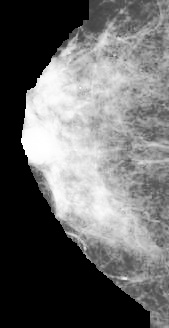
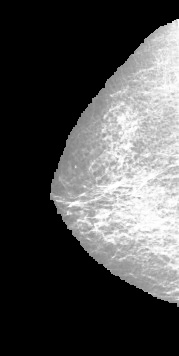
Calculo individual de areas y perimetros

diff --git a/Segmentacion/deteccionCal.py b/Segmentacion/deteccionCal.py
@@ -5,6 +5,15 @@ from PIL import Image
 from scipy import ndimage
 import matplotlib.pyplot as plt
 import matplotlib.image as mpimg
+from PIL import Image, ImageFilter
+
+coord_x = None
+coord_y = None
+valoresArea = None
+valoresPerimetro = None
+areaComponente = None
+perimetroComponente = None
+
 
 def preProcesamiento(ruta):
     img_orignal = ruta
@@ -26,20 +35,11 @@ def preProcesamiento(ruta):
     umbral = 30  # Puedes ajustar este valor según tus necesidades
     imagen_umbralizada = cv2.threshold(imagen, umbral, 255, cv2.THRESH_BINARY)[1]
 
-    # cv2.imshow('nc', imagen_original)
-
     # Aplica la máscara a la imagen a color
     imagen_resultante = cv2.bitwise_and(imagen_ecualizada, imagen_ecualizada, mask=imagen_umbralizada)
 
     # Guarda la imagen resultante
     cv2.imwrite('imagen_resultante.jpg', imagen_resultante)
-
-    # Muestra la imagen original, la imagen umbralizada y la imagen resultante
-    # cv2.imshow('Imagen Original', imagen_original)
-    # cv2.imshow('Imagen Umbralizada', imagen_umbralizada)
-    # cv2.imshow('Imagen Resultante', imagen_resultante)
-    # cv2.waitKey(0)
-    # cv2.destroyAllWindows()
 
     return imagen_umbralizada
 
@@ -57,11 +57,6 @@ def segmentacion(ruta, rutaOriginal):
     np_image = np.array(imgGrises)
     np_image = ajustar_gamma(np_image, 0.1)
     np_image = ajustar_gamma(np_image, 0.1)
-
-    # plt.imshow(np_image, cmap='gray')
-    # plt.title(f'Imagen con Gamma {2.0}')
-    # plt.axis('off')
-    # plt.show()
 
     # Crear la máscara binaria para el top % más brillante
     umbral = np.percentile(np_image, 98)
@@ -93,13 +88,10 @@ def segmentacion(ruta, rutaOriginal):
 
     # Convertir la máscara binaria a una imagen PIL y guardarla
     result_image = Image.fromarray((final_image * 255).astype(np.uint8))
+    for _ in range(4):
+        result_image = result_image.filter(ImageFilter.MedianFilter(size=3))
+    
     result_image.save('imagen_umbralizada.png')
-
-    # Mostrar la imagen resultante
-    # plt.imshow(final_image, cmap='gray')
-    # plt.axis('off')
-    # plt.show()
-
 
     # Cargar las imágenes
     imagen1 = Image.open(rutaOriginal).convert("RGB")
@@ -129,31 +121,119 @@ def segmentacion(ruta, rutaOriginal):
 
     return 'imagen_umbralizada.png'
 
+def etiquetar_objetos(matriz):
+    etiqueta = 0
+    etiquetas = {}
+    for i in range(len(matriz)):
+        for j in range(len(matriz[i])):
+            if matriz[i][j] == 1:
+                vecinos = obtener_vecinos(etiquetas, i, j)
+                if not vecinos:
+                    etiqueta += 1
+                    etiquetas[(i, j)] = etiqueta
+                else:
+                    etiqueta_min = min(vecinos)
+                    etiquetas[(i, j)] = etiqueta_min
+                    actualizar_etiquetas(etiquetas, vecinos, etiqueta_min)
+    return etiquetas
 
-def area_y_perimetro(image_path):
-    image = Image.open(image_path)
-    imgBn = image.convert('1')
+def obtener_vecinos(etiquetas, i, j):
+    vecinos = []
+    for di, dj in [(-1, 0), (0, -1), (-1, -1), (1, -1)]:
+        if (i + di, j + dj) in etiquetas:
+            vecinos.append(etiquetas[(i + di, j + dj)])
+    return vecinos
 
-    imgArr = np.array(imgBn)
+def actualizar_etiquetas(etiquetas, vecinos, nueva_etiqueta):
+    for posicion in etiquetas:
+        if etiquetas[posicion] in vecinos:
+            etiquetas[posicion] = nueva_etiqueta
 
-    # Inverso de la imagen
-    imagenInvertida = np.invert(imgArr)
-    contornos, _ = cv2.findContours(imagenInvertida.astype(np.uint8), cv2.RETR_TREE, cv2.CHAIN_APPROX_SIMPLE)
+def calcular_area_perimetro(etiquetas, matriz):
+    areas = {}
+    perimetros = {}
+    for posicion, etiqueta in etiquetas.items():
+        i, j = posicion
+        if etiqueta not in areas:
+            areas[etiqueta] = 0
+        if etiqueta not in perimetros:
+            perimetros[etiqueta] = 0
+        areas[etiqueta] += 1
+        perimetros[etiqueta] += contar_bordes(matriz, i, j)
 
-    # Suma de las regiones de interes
-    area = np.sum(imagenInvertida)
+    return areas, perimetros
 
-    # Calculo del perimetro calculando la logitud de cada contorno
-    perimetro = sum(cv2.arcLength(cnt, True) for cnt in contornos)
+def contar_bordes(matriz, i, j):
+    bordes = 0
+    for di, dj in [(-1, 0), (1, 0), (0, -1), (0, 1)]:
+        if 0 <= i + di < len(matriz) and 0 <= j + dj < len(matriz[0]):
+            if matriz[i + di][j + dj] == 0:
+                bordes += 1
+        else:
+            bordes += 1
+    return bordes
 
-    imagen_contorno = np.zeros(imagenInvertida.shape, dtype=np.uint8)
-    cv2.drawContours(imagen_contorno, contornos, -1, 255, 1)
+def cal_area_y_perimetro(rutaImagen):
+    image = Image.open(rutaImagen)
+    imgBn = image.convert('1')  # Convertir a imagen binaria (blanco y negro)
 
-    imgContorno = Image.fromarray(imagen_contorno)
-    ruta_contorno = image_path.replace('.png', '_contornos.png')
-    imgContorno.save(ruta_contorno)
+    imgArr = np.array(imgBn)  # Convertir a matriz numpy
 
-    return area, perimetro, ruta_contorno
+    # Invertir la imagen: en PIL, '1' es blanco y '0' es negro
+    matriz_binaria = imgArr.astype(int)  # Convertir a matriz binaria de 0 y 1
+
+    etiquetas = etiquetar_objetos(matriz_binaria)
+    areas, perimetros = calcular_area_perimetro(etiquetas, matriz_binaria)
+
+    matriz_areas = [[0 for _ in range(len(matriz_binaria[0]))] for _ in range(len(matriz_binaria))]
+    matriz_perimetros = [[0 for _ in range(len(matriz_binaria[0]))] for _ in range(len(matriz_binaria))]
+
+    for (i, j), etiqueta in etiquetas.items():
+        matriz_areas[i][j] = areas[etiqueta]
+        matriz_perimetros[i][j] = perimetros[etiqueta]
+
+    return matriz_areas, matriz_perimetros
+
+
+
+def deteccionBordes(rutaImagen):
+    # Cargar la imagen y convertirla a escala de grises
+    image = Image.open(rutaImagen)
+    img_gray = image.convert('L')
+    img_array = np.array(img_gray)
+
+    # Aplicar el filtro Laplaciano
+    img_laplacian = cv2.Laplacian(img_array, cv2.CV_64F)
+
+    # Normalizar y convertir a uint8
+    img_laplacian = np.clip(img_laplacian, 0, 255)
+    img_laplacian = np.absolute(img_laplacian)  # Obtener el valor absoluto para asegurar que todos los valores sean positivos
+    img_laplacian = np.uint8(img_laplacian)
+
+    # Binarizar la imagen
+    _, img_bin = cv2.threshold(img_laplacian, 50, 255, cv2.THRESH_BINARY)
+
+    # Guardar la imagen resultante
+    img_contorno = Image.fromarray(img_bin)
+    ruta_contorno = rutaImagen.replace('.png', '_contornos_laplacian.png')
+    img_contorno.save(ruta_contorno)
+
+    return ruta_contorno
+
+def on_move(event):
+    global coord_x, coord_y, texto_area_perimetro
+    # Asegúrate de que el movimiento sea dentro de un eje
+    if event.inaxes is not None:
+        coord_x, coord_y = event.xdata, event.ydata
+
+        # Asegúrate de que las coordenadas estén dentro del rango
+        if 0 <= int(coord_y) < len(valoresArea) and 0 <= int(coord_x) < len(valoresArea[0]):
+            areaComponente = valoresArea[int(coord_y)][int(coord_x)]
+            perimetroComponente = valoresPerimetro[int(coord_y)][int(coord_x)]
+
+            # Actualiza el texto con los nuevos valores
+            texto_area_perimetro.set_text(f'Área: {areaComponente} px, Perímetro: {perimetroComponente} px')
+            plt.draw()  # Actualiza la figura
 
 def main():
     parser = argparse.ArgumentParser(description='Procesar una imagen.')
@@ -162,18 +242,18 @@ def main():
     ruta = args.ruta
     original = cv2.imread(ruta)
 
-    img_umbralizada = preProcesamiento(ruta)
+    preProcesamiento(ruta)
     mascara_segmentacion = segmentacion('imagen_resultante.jpg', ruta)
-    area, perimetro, ruta_contorno = area_y_perimetro('imagen_umbralizada.png')
+    ruta_contorno = deteccionBordes('imagen_umbralizada.png')
+
+    global valoresArea, valoresPerimetro, areaComponente, perimetroComponente
+    valoresArea, valoresPerimetro = cal_area_y_perimetro('imagen_umbralizada.png')
     img_segmentada = 'imagenSegmentada.jpg'
 
     areas = mpimg.imread(mascara_segmentacion)
     perimetros = mpimg.imread(ruta_contorno)
     img_segmentada = mpimg.imread('imagenSegmentada.jpg')
     original = mpimg.imread(ruta)
-
-    w, h = areas.shape[:2]
-    area = w * h - area
 
     plt.figure(figsize=(10, 10))
 
@@ -198,11 +278,12 @@ def main():
     plt.axis('off')
     plt.title('Segmentada')
 
-    plt.figtext(0.5, 0.04, f'Área: {int(area)} px, Perímetro: {int(perimetro)} px', ha="center", fontsize=12, bbox={"facecolor":"orange", "alpha":0.5, "pad":5})
-    plt.title("Sementacion de Calcificaciones")
+    global texto_area_perimetro
+    texto_area_perimetro = plt.figtext(0.5, 0.04, 'Área: 0 px, Perímetro: 0 px', ha="center", fontsize=12, bbox={"facecolor":"orange", "alpha":0.5, "pad":5})
+    fig = plt.gcf()  # Obtiene la figura actual
+    cid = fig.canvas.mpl_connect('motion_notify_event', on_move)
 
     plt.show()
-
 
 
 
